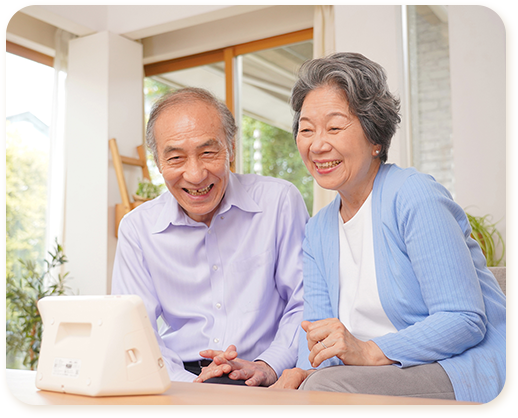
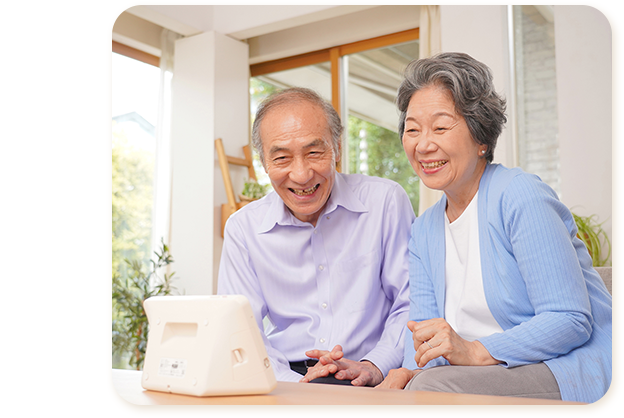
mod pc style

diff --git a/index.html b/index.html
@@ -35,7 +35,7 @@
       <section id="mv">
         <h2 class="mv">
           <picture>
-            <source media="(max-width: 959px)" srcset="/images/pages/top/mv-md.png" />
+            <source media="(max-width: 779px)" srcset="/images/pages/top/mv-md.png" />
             <img src="/images/pages/top/mv.png" alt="うちの母が、タブレットを使いこなすなんて。シニアの毎日にデジタルをTQタブレット" />
           </picture>
         </h2>
@@ -117,7 +117,7 @@
             <h2 class="worries-caption cp-caption-green small">TQタブレットは<br />こんなお悩みをお持ちの方に<br />ご購入いただいております。</h2>
             <div class="worries-content">
               <picture>
-                <source media="(max-width: 959px)" srcset="/images/pages/top/worries-content.png" />
+                <source media="(max-width: 779px)" srcset="/images/pages/top/worries-content.png" />
                 <img
                   src="/images/pages/top/worries-content.png"
                   alt="難しい設定や 操作がなく、親にインターネットを簡単安全に楽しんでもらいたい。オペレーターのサポートで、親の生活を便利にしたい。遠く離れている親とコミュニケーションを取りたい。親にむかし勤務していた会社の人との交流を気軽に楽しんでもらいたい。お手頃な価格で、インターネットやコンテンツを楽しんでほしい。"
@@ -163,7 +163,7 @@
             <h2 class="cp-caption-green">実際に利用してくださった方々から<br />嬉しい声がたくさん！</h2>
             <div class="voice-content">
               <picture>
-                <source media="(max-width: 959px)" srcset="/images/pages/top/voice-content.png" />
+                <source media="(max-width: 779px)" srcset="/images/pages/top/voice-content.png" />
                 <img
                   src="/images/pages/top/voice-content.png"
                   alt="家事をしながら音楽や大学の講義なんかを聴いています。ビデオ通話を使って、親が選んだものを私がネットで買ってあげています。最近は探すのに夢中なようです。オペレーターの方がほんとにやさしい。これまで何週間もヒトと話していなかったので、毎日が楽しいです。地元で話題のトークルームに参加しました。聞いているだけで楽しかったけど、思い切って話してみました。"
@@ -503,7 +503,7 @@
             <h2 class="cp-caption-black small">スマートフォンのTQアプリを使えば、 <br />TQタブレットとビデオ通話が楽しめます。</h2>
             <div class="app-image">
               <picture>
-                <source media="(max-width: 959px)" srcset="/images/pages/top/app-image-md.png" />
+                <source media="(max-width: 779px)" srcset="/images/pages/top/app-image-md.png" />
                 <img src="/images/pages/top/app-image.png" alt="" />
               </picture>
             </div>
@@ -552,14 +552,14 @@
                 </li>
                 <li class="device-bundle-item col-2">
                   <picture>
-                    <source media="(max-width: 959px)" srcset="/images/pages/top/device-pen-md.png" />
+                    <source media="(max-width: 779px)" srcset="/images/pages/top/device-pen-md.png" />
                     <img src="/images/pages/top/device-pen.png" alt="" />
                   </picture>
                   <p class="device-bundle-item-name">タッチペン</p>
                 </li>
                 <li class="device-bundle-item col-3">
                   <picture>
-                    <source media="(max-width: 959px)" srcset="/images/pages/top/device-adapter-md.png" />
+                    <source media="(max-width: 779px)" srcset="/images/pages/top/device-adapter-md.png" />
                     <img src="/images/pages/top/device-adapter.png" alt="" />
                   </picture>
                   <p class="device-bundle-item-name">ACアダプタ（1個）</p>

diff --git a/src/scss/pages/top/index.scss b/src/scss/pages/top/index.scss
@@ -61,7 +61,8 @@
     }
 
     .charm-iamge {
-      width: 532px;
+      width: 100%;
+      max-width: 53.2%;
       margin-block-start: 70px;
       text-align: right;
     }
@@ -181,7 +182,7 @@
       }
 
       .support-text {
-        @include font-rem(21);
+        @include font-rem(18);
 
         line-height: 1.9;
       }
@@ -404,10 +405,12 @@
 
       &.basic {
         background: url('/images/pages/top/plan-basic-image.png') right bottom no-repeat;
+        background-size: 61%;
       }
 
       &.premium {
         background: url('/images/pages/top/plan-premium-image.png') right bottom no-repeat;
+        background-size: 61%;
       }
 
       .plan-caption {
@@ -420,6 +423,11 @@
         font-weight: bold;
         border-radius: 0 0 28px;
         translate: calc((100vw - 1000px) / 2 * -1);
+
+        @media screen and (width <= 1040px) {
+          padding-inline-start: 40px;
+          translate: -20px;
+        }
       }
 
       .plan-heading-text {
@@ -468,14 +476,11 @@
     .plan-description {
       @include font-rem(18);
 
-      font-weight: bold;
       line-height: 1.88;
     }
 
     .plan-note {
       @include font-rem(12);
-
-      font-weight: bold;
     }
 
     &.green {
@@ -523,6 +528,7 @@
       flex-wrap: wrap;
       row-gap: 60px;
       column-gap: 7%;
+      justify-content: stretch;
       margin-block-start: 40px;
 
       .plan-function-card {
@@ -533,7 +539,7 @@
 
           display: inline-block;
           padding-block: 12px;
-          padding-inline: 70px;
+          padding-inline: 30px;
           font-weight: bold;
           color: map.get($colors, 'white');
           background-color: map.get($colors, 'green');
@@ -541,6 +547,7 @@
         }
 
         .plan-function-card-wrap {
+          height: calc(100% - 60px);
           overflow: hidden;
           background-color: map.get($colors, 'white');
           border-radius: 0 25px 25px;
@@ -741,6 +748,7 @@
             display: inline-flex;
             align-items: center;
             min-height: 2em * 1.6;
+            padding-inline: 20px;
             color: map.get($colors, 'black');
           }
         }
@@ -920,7 +928,7 @@
 
     .device-wrap {
       padding-block: 80px;
-      padding-inline: 100px;
+      padding-inline: 20px;
       background-color: map.get($colors, 'white');
       border-radius: 30px;
     }
@@ -931,7 +939,9 @@
       row-gap: 20px;
       align-items: stretch;
       justify-content: space-around;
+      max-width: 800px;
       margin-block-start: 60px;
+      margin-inline: auto;
 
       .col-2 {
         width: 50%;
@@ -958,13 +968,16 @@
       position: relative;
       display: flex;
       justify-content: flex-end;
+      max-width: 800px;
       margin-block-start: 150px;
+      margin-inline: auto;
 
       .device-image {
         position: absolute;
         top: -60px;
         left: 0;
         z-index: 2;
+        width: 45%;
       }
 
       .device-image-text {
@@ -1108,6 +1121,7 @@
           width: 100%;
           padding-block: 16px;
           padding-inline-start: 73px;
+          padding-inline-end: 60px;
           font-weight: bold;
           color: map.get($colors, 'green');
           text-align: left;
@@ -1152,6 +1166,7 @@
           position: relative;
           padding-block: 16px;
           padding-inline-start: 73px;
+          padding-inline-end: 60px;
           margin-block-start: -8px;
           color: map.get($colors, 'red');
           background-color: map.get($colors, 'white');
@@ -1226,7 +1241,7 @@
       @include font-rem(36);
 
       position: absolute;
-      top: 200px + 100px;
+      top: 16%;
       left: 0;
       font-weight: bold;
     }

diff --git a/src/scss/modules/abstracts/variables/_breakpoint.scss b/src/scss/modules/abstracts/variables/_breakpoint.scss
@@ -4,7 +4,7 @@ $breakpoint-up: (
   // Tab最小～
   'sm': 'screen and (min-width: 520px)',
   // PC最小～
-  'md': 'screen and (min-width: 960px)',
+  'md': 'screen and (min-width: 780px)',
   // PC標準～
   'lg': 'screen and (min-width: 1280px)',
   // ノートPC FWXGA～,
@@ -16,7 +16,7 @@ $breakpoint-down: (
   // ～SP（ポートレート）最大
   'sm': 'screen and (max-width: 519px)',
   // ～Tab（ポートレート）最大
-  'md': 'screen and (max-width: 959px)',
+  'md': 'screen and (max-width: 779px)',
   // ～Tab（ランドスケープ）最大
   'lg': 'screen and (max-width: 1279px)',
   // ～ノートPC FWXGA最大

diff --git a/src/scss/components/layout/_header.scss b/src/scss/components/layout/_header.scss
@@ -7,11 +7,11 @@
     display: flex;
     align-items: center;
     justify-content: space-between;
-    padding-inline: 80px;
+    padding-inline: 4%;
 
     .header-meta {
       display: flex;
-      gap: 30px;
+      gap: 6%;
       align-items: center;
       justify-content: center;
 
@@ -20,6 +20,7 @@
       }
 
       .header-contact {
+        width: 200px;
         line-height: 1.35;
         color: map.get($colors, 'green');
         text-align: center;

diff --git a/src/scss/components/parts/_cta.scss b/src/scss/components/parts/_cta.scss
@@ -5,7 +5,7 @@
   padding-block-end: 60px;
 
   .cp-cta-text {
-    @include font-rem(24);
+    @include font-rem(18);
 
     font-weight: bold;
     color: map.get($colors, 'main');
